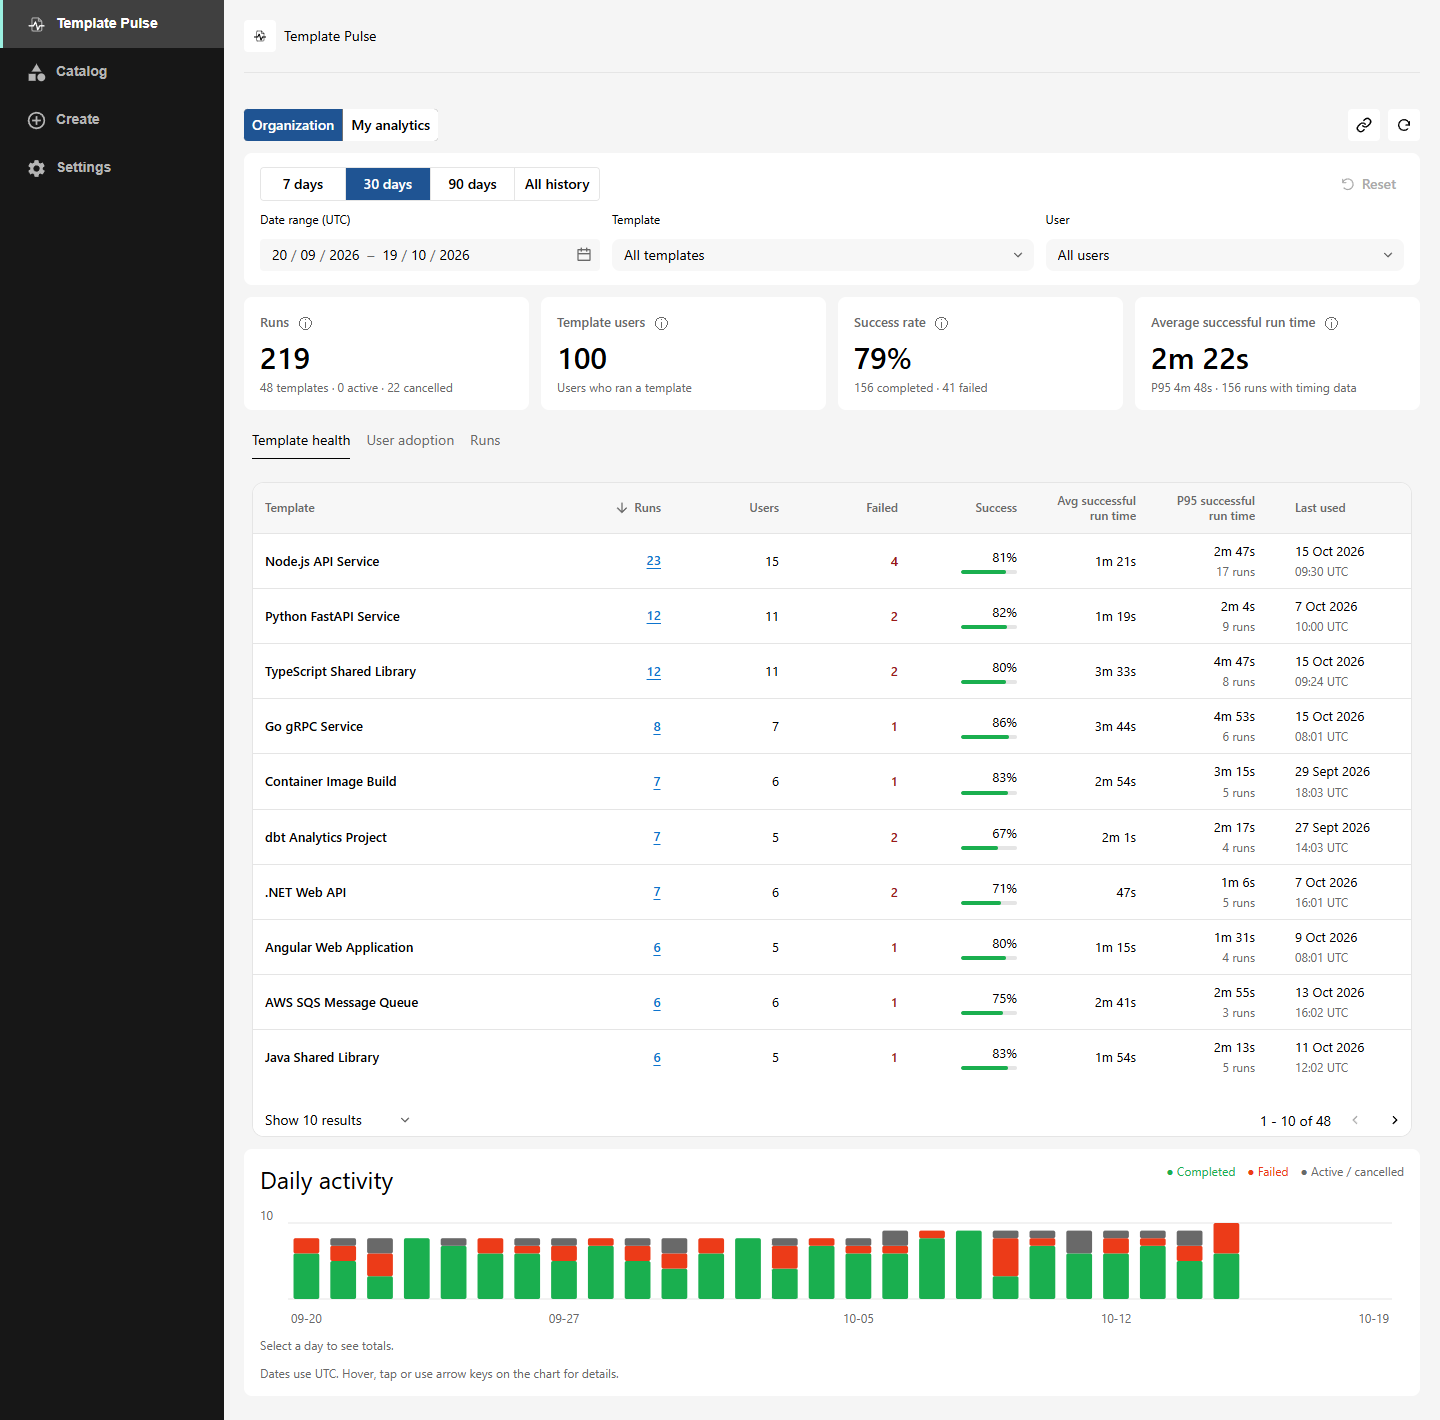
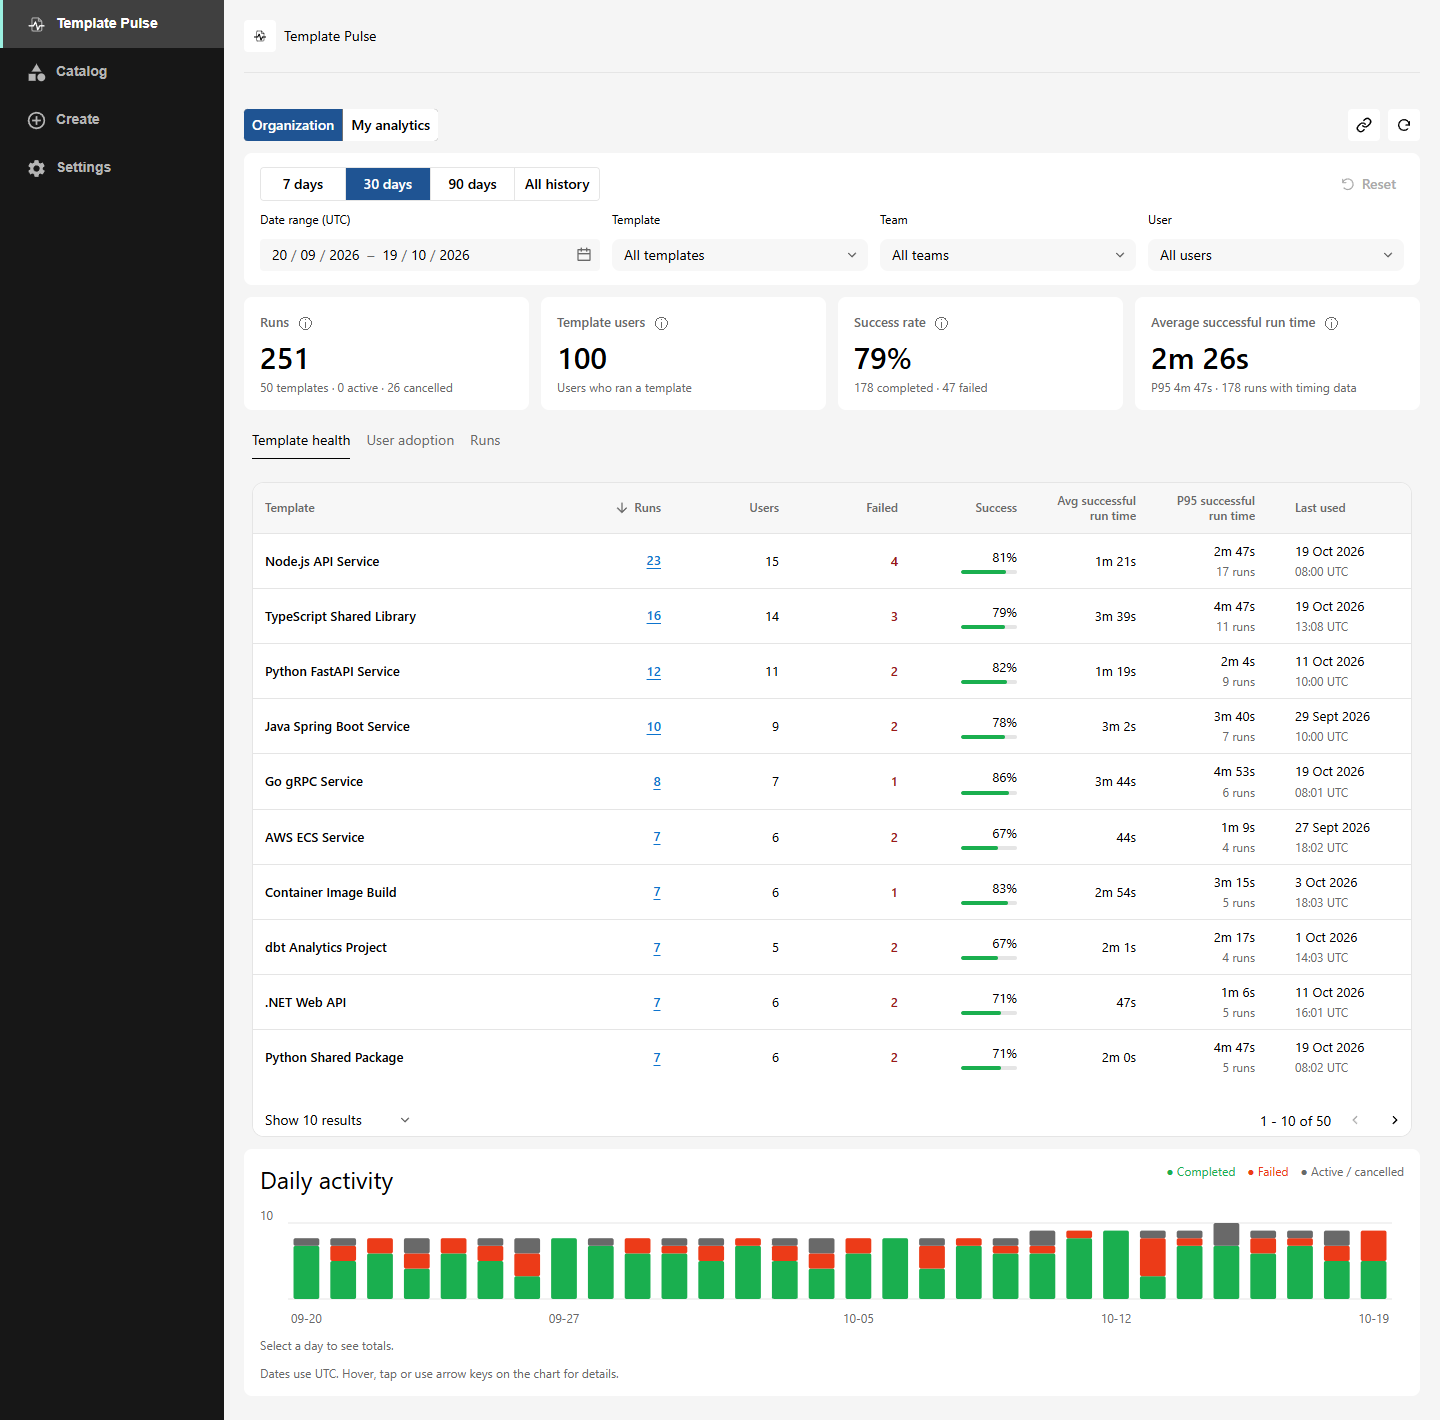
chore: teams filter in screeshots

diff --git a/README.md b/README.md
@@ -16,11 +16,13 @@ Template Pulse inside Backstage, using fictional demo data.
 ![Template Pulse inside Backstage, with the app navigation, template usage, success rates, and run times](docs/assets/screenshots/template-health.png)
 
 <details>
-<summary>Runs by template and user</summary>
+<summary>Team adoption and filtered runs</summary>
 
-![Template Pulse run history filtered by template inside Backstage](docs/assets/screenshots/executions-by-template.png)
+![Template Pulse user adoption filtered by team inside Backstage](docs/assets/screenshots/team-adoption.png)
 
-![Template Pulse run history filtered by user inside Backstage](docs/assets/screenshots/executions-by-user.png)
+![Template Pulse run history filtered by template and failed status inside Backstage](docs/assets/screenshots/executions-by-template.png)
+
+![Template Pulse run history filtered by team and user inside Backstage](docs/assets/screenshots/executions-by-user.png)
 
 </details>
 
